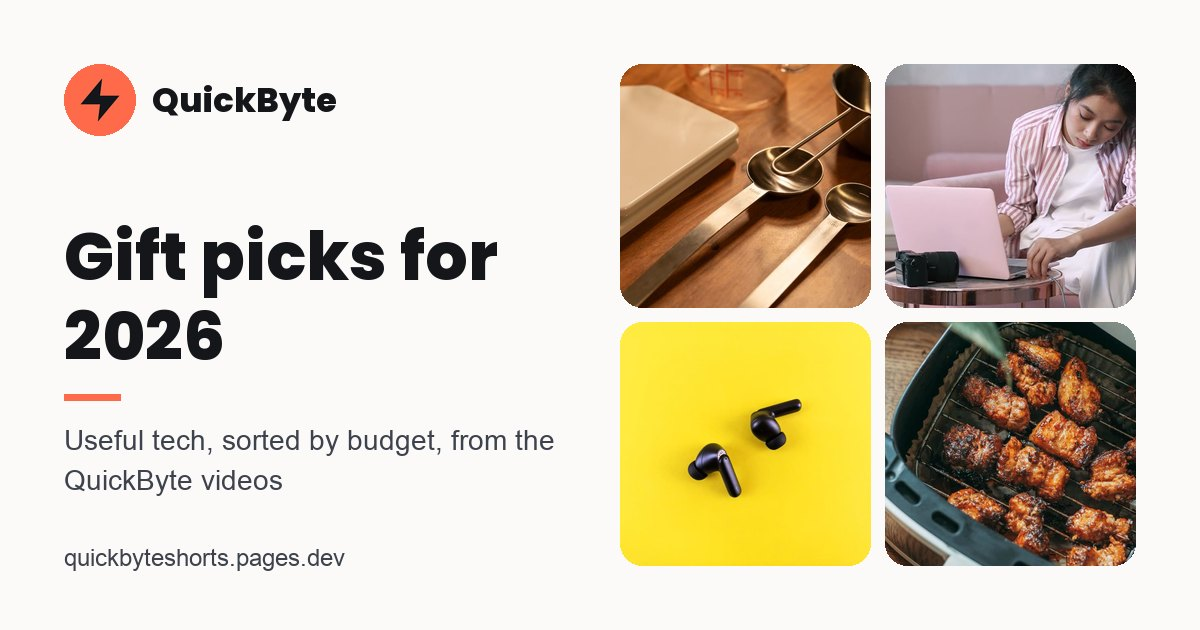
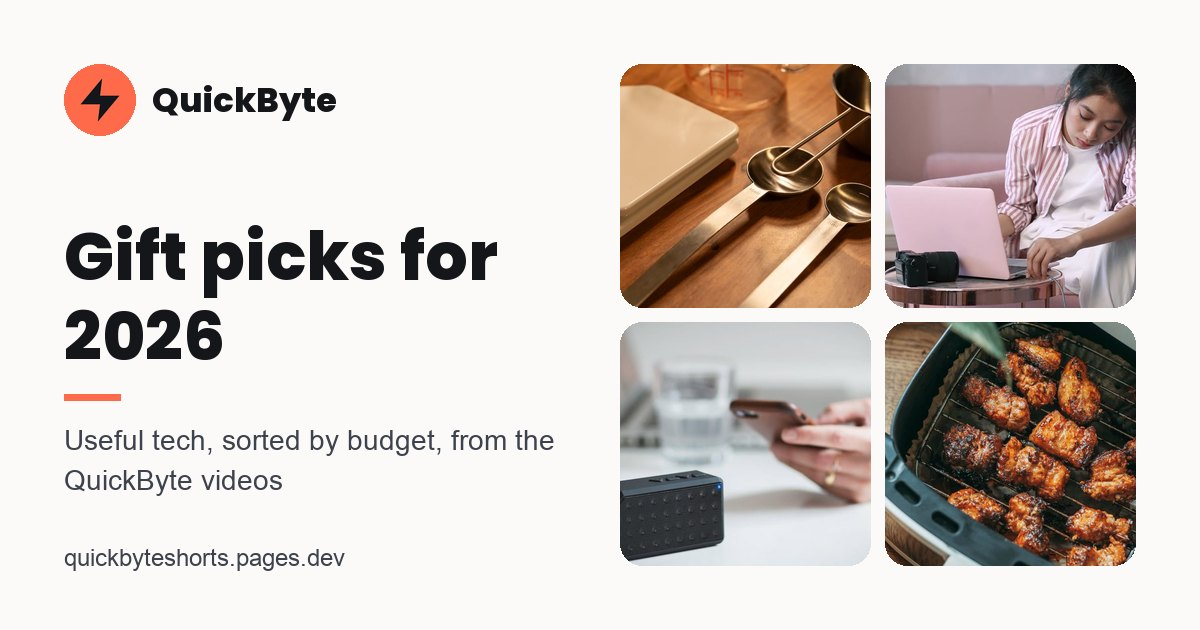
Automated cycle: update landing page

Changed region(s): [[0.4933, 0.4825, 0.74, 0.9048]]

diff --git a/docs/index.html b/docs/index.html
@@ -89,7 +89,7 @@ footer{color:var(--muted);font-size:.82rem;text-align:center;padding:24px 20px 3
 footer a{color:inherit}
 @media (max-width:520px){.season{font-size:1.45rem}.wrap{padding-top:26px}.feature .name{font-size:1.15rem}}
 </style>
-<script type="application/ld+json">{"@context": "https://schema.org", "@graph": [{"@type": "WebSite", "@id": "https://quickbyteshorts.pages.dev/#website", "name": "QuickByte", "url": "https://quickbyteshorts.pages.dev/", "description": "Short videos on which tech is worth buying, and which isn't"}, {"@type": "ItemList", "name": "Gift picks for 2026", "numberOfItems": 28, "itemListElement": [{"@type": "ListItem", "position": 1, "name": "Digital kitchen scale", "url": "https://quickbyteshorts.pages.dev/#pick-kitchen-scale"}, {"@type": "ListItem", "position": 2, "name": "ThermoPro TP19H instant-read thermometer", "url": "https://quickbyteshorts.pages.dev/#pick-thermopro-tp19h"}, {"@type": "ListItem", "position": 3, "name": "Tile Mate tracker", "url": "https://quickbyteshorts.pages.dev/#pick-tile-mate"}, {"@type": "ListItem", "position": 4, "name": "Anker Nano 30W USB-C charger", "url": "https://quickbyteshorts.pages.dev/#pick-anker-nano-charger"}, {"@type": "ListItem", "position": 5, "name": "UGREEN 240W USB-C cable (USB4)", "url": "https://quickbyteshorts.pages.dev/#pick-ugreen-usb4-cable"}, {"@type": "ListItem", "position": 6, "name": "65W two-port USB-C charger", "url": "https://quickbyteshorts.pages.dev/#pick-usb-c-65w-charger"}, {"@type": "ListItem", "position": 7, "name": "5-speed hand mixer", "url": "https://quickbyteshorts.pages.dev/#pick-hand-mixer"}, {"@type": "ListItem", "position": 8, "name": "Anker Nano power bank (10,000mAh)", "url": "https://quickbyteshorts.pages.dev/#pick-anker-nano-power-bank"}, {"@type": "ListItem", "position": 9, "name": "Redragon K552 mechanical keyboard", "url": "https://quickbyteshorts.pages.dev/#pick-redragon-k552-keyboard"}, {"@type": "ListItem", "position": 10, "name": "Echo Pop or Nest Mini", "url": "https://quickbyteshorts.pages.dev/#pick-smart-speaker"}, {"@type": "ListItem", "position": 11, "name": "4K streaming stick", "url": "https://quickbyteshorts.pages.dev/#pick-streaming-stick"}, {"@type": "ListItem", "position": 12, "name": "Belkin Qi2 magnetic charger", "url": "https://quickbyteshorts.pages.dev/#pick-belkin-qi2-charger"}, {"@type": "ListItem", "position": 13, "name": "Soundcore Liberty 4 NC earbuds", "url": "https://quickbyteshorts.pages.dev/#pick-soundcore-liberty-4-nc"}, {"@type": "ListItem", "position": 14, "name": "Variable-temperature gooseneck kettle", "url": "https://quickbyteshorts.pages.dev/#pick-gooseneck-kettle"}, {"@type": "ListItem", "position": 15, "name": "Cosori Pro LE 5-quart air fryer", "url": "https://quickbyteshorts.pages.dev/#pick-cosori-air-fryer-5qt"}, {"@type": "ListItem", "position": 16, "name": "Kodak Step mini photo printer", "url": "https://quickbyteshorts.pages.dev/#pick-kodak-step-printer"}, {"@type": "ListItem", "position": 17, "name": "Dual-basket air fryer (8 qt)", "url": "https://quickbyteshorts.pages.dev/#pick-dual-basket-air-fryer"}, {"@type": "ListItem", "position": 18, "name": "1080p mini projector with Google TV", "url": "https://quickbyteshorts.pages.dev/#pick-mini-projector-google-tv"}, {"@type": "ListItem", "position": 19, "name": "Wi-Fi photo frame", "url": "https://quickbyteshorts.pages.dev/#pick-wifi-photo-frame"}, {"@type": "ListItem", "position": 20, "name": "Baratza Encore burr grinder", "url": "https://quickbyteshorts.pages.dev/#pick-baratza-encore"}, {"@type": "ListItem", "position": 21, "name": "Kindle Paperwhite", "url": "https://quickbyteshorts.pages.dev/#pick-kindle-paperwhite"}, {"@type": "ListItem", "position": 22, "name": "MagicFiber microfiber cloths (6-pack)", "url": "https://quickbyteshorts.pages.dev/#pick-magicfiber-cloths"}, {"@type": "ListItem", "position": 23, "name": "IP67 clip-on Bluetooth speaker", "url": "https://quickbyteshorts.pages.dev/#pick-ip67-bluetooth-speaker"}, {"@type": "ListItem", "position": 24, "name": "Qi2 3-in-1 stand with Apple Watch charger", "url": "https://quickbyteshorts.pages.dev/#pick-qi2-3-in-1-stand"}, {"@type": "ListItem", "position": 25, "name": "Leave-in probe meat thermometer", "url": "https://quickbyteshorts.pages.dev/#pick-leave-in-meat-thermometer"}, {"@type": "ListItem", "position": 26, "name": "Samsung 870 EVO SSD (500GB)", "url": "https://quickbyteshorts.pages.dev/#pick-samsung-870-evo-ssd"}, {"@type": "ListItem", "position": 27, "name": "27-inch 1440p monitor", "url": "https://quickbyteshorts.pages.dev/#pick-monitor-27-1440p"}, {"@type": "ListItem", "position": 28, "name": "Robot vacuum with lidar", "url": "https://quickbyteshorts.pages.dev/#pick-lidar-robot-vacuum"}]}]}</script>
+<script type="application/ld+json">{"@context": "https://schema.org", "@graph": [{"@type": "WebSite", "@id": "https://quickbyteshorts.pages.dev/#website", "name": "QuickByte", "url": "https://quickbyteshorts.pages.dev/", "description": "Short videos on which tech is worth buying, and which isn't"}, {"@type": "ItemList", "name": "Gift picks for 2026", "numberOfItems": 28, "itemListElement": [{"@type": "ListItem", "position": 1, "name": "Digital kitchen scale", "url": "https://quickbyteshorts.pages.dev/#pick-kitchen-scale"}, {"@type": "ListItem", "position": 2, "name": "ThermoPro TP19H instant-read thermometer", "url": "https://quickbyteshorts.pages.dev/#pick-thermopro-tp19h"}, {"@type": "ListItem", "position": 3, "name": "Tile Mate tracker", "url": "https://quickbyteshorts.pages.dev/#pick-tile-mate"}, {"@type": "ListItem", "position": 4, "name": "Anker Nano 30W USB-C charger", "url": "https://quickbyteshorts.pages.dev/#pick-anker-nano-charger"}, {"@type": "ListItem", "position": 5, "name": "UGREEN 240W USB-C cable (USB4)", "url": "https://quickbyteshorts.pages.dev/#pick-ugreen-usb4-cable"}, {"@type": "ListItem", "position": 6, "name": "65W two-port USB-C charger", "url": "https://quickbyteshorts.pages.dev/#pick-usb-c-65w-charger"}, {"@type": "ListItem", "position": 7, "name": "5-speed hand mixer", "url": "https://quickbyteshorts.pages.dev/#pick-hand-mixer"}, {"@type": "ListItem", "position": 8, "name": "Anker Nano power bank (10,000mAh)", "url": "https://quickbyteshorts.pages.dev/#pick-anker-nano-power-bank"}, {"@type": "ListItem", "position": 9, "name": "Redragon K552 mechanical keyboard", "url": "https://quickbyteshorts.pages.dev/#pick-redragon-k552-keyboard"}, {"@type": "ListItem", "position": 10, "name": "Echo Pop or Nest Mini", "url": "https://quickbyteshorts.pages.dev/#pick-smart-speaker"}, {"@type": "ListItem", "position": 11, "name": "4K streaming stick", "url": "https://quickbyteshorts.pages.dev/#pick-streaming-stick"}, {"@type": "ListItem", "position": 12, "name": "Belkin Qi2 magnetic charger", "url": "https://quickbyteshorts.pages.dev/#pick-belkin-qi2-charger"}, {"@type": "ListItem", "position": 13, "name": "IP67 clip-on Bluetooth speaker", "url": "https://quickbyteshorts.pages.dev/#pick-ip67-bluetooth-speaker"}, {"@type": "ListItem", "position": 14, "name": "Soundcore Liberty 4 NC earbuds", "url": "https://quickbyteshorts.pages.dev/#pick-soundcore-liberty-4-nc"}, {"@type": "ListItem", "position": 15, "name": "Variable-temperature gooseneck kettle", "url": "https://quickbyteshorts.pages.dev/#pick-gooseneck-kettle"}, {"@type": "ListItem", "position": 16, "name": "Cosori Pro LE 5-quart air fryer", "url": "https://quickbyteshorts.pages.dev/#pick-cosori-air-fryer-5qt"}, {"@type": "ListItem", "position": 17, "name": "Kodak Step mini photo printer", "url": "https://quickbyteshorts.pages.dev/#pick-kodak-step-printer"}, {"@type": "ListItem", "position": 18, "name": "Dual-basket air fryer (8 qt)", "url": "https://quickbyteshorts.pages.dev/#pick-dual-basket-air-fryer"}, {"@type": "ListItem", "position": 19, "name": "1080p mini projector with Google TV", "url": "https://quickbyteshorts.pages.dev/#pick-mini-projector-google-tv"}, {"@type": "ListItem", "position": 20, "name": "Wi-Fi photo frame", "url": "https://quickbyteshorts.pages.dev/#pick-wifi-photo-frame"}, {"@type": "ListItem", "position": 21, "name": "Baratza Encore burr grinder", "url": "https://quickbyteshorts.pages.dev/#pick-baratza-encore"}, {"@type": "ListItem", "position": 22, "name": "Kindle Paperwhite", "url": "https://quickbyteshorts.pages.dev/#pick-kindle-paperwhite"}, {"@type": "ListItem", "position": 23, "name": "MagicFiber microfiber cloths (6-pack)", "url": "https://quickbyteshorts.pages.dev/#pick-magicfiber-cloths"}, {"@type": "ListItem", "position": 24, "name": "Qi2 3-in-1 stand with Apple Watch charger", "url": "https://quickbyteshorts.pages.dev/#pick-qi2-3-in-1-stand"}, {"@type": "ListItem", "position": 25, "name": "Leave-in probe meat thermometer", "url": "https://quickbyteshorts.pages.dev/#pick-leave-in-meat-thermometer"}, {"@type": "ListItem", "position": 26, "name": "Samsung 870 EVO SSD (500GB)", "url": "https://quickbyteshorts.pages.dev/#pick-samsung-870-evo-ssd"}, {"@type": "ListItem", "position": 27, "name": "27-inch 1440p monitor", "url": "https://quickbyteshorts.pages.dev/#pick-monitor-27-1440p"}, {"@type": "ListItem", "position": 28, "name": "Robot vacuum with lidar", "url": "https://quickbyteshorts.pages.dev/#pick-lidar-robot-vacuum"}]}]}</script>
 </head>
 <body>
 <div class="wrap">
@@ -98,7 +98,11 @@ footer a{color:inherit}
 <nav class="socials" aria-label="QuickByte on social media"><a href="https://www.youtube.com/@quickbytetips" target="_blank" rel="noopener me">YouTube</a><a href="https://www.tiktok.com/@quickbytetips" target="_blank" rel="noopener me">TikTok</a><a href="https://www.instagram.com/quickbytetips" target="_blank" rel="noopener me">Instagram</a></nav>
 <p class="disc">The Amazon links on this page are affiliate links. As an Amazon Associate I earn from qualifying purchases.</p>
 <main>
-<section class="latest" aria-labelledby="latest-h"><h2 id="latest-h">From recent videos</h2><div class="grid wide"><article class="pick compact"><div class="ph"><picture><source type="image/webp" srcset="img/65w-2-port-usb-c-gan-charger-480.webp 480w, img/65w-2-port-usb-c-gan-charger-800.webp 800w" sizes="160px"><img src="img/65w-2-port-usb-c-gan-charger.jpg" alt="" width="800" height="600" fetchpriority="high" decoding="async"></picture></div><div class="body">
+<section class="latest" aria-labelledby="latest-h"><h2 id="latest-h">From today's video</h2><article class="feature"><div class="ph"><picture><source type="image/webp" srcset="img/ip67-clip-on-bluetooth-speaker-480.webp 480w, img/ip67-clip-on-bluetooth-speaker-800.webp 800w" sizes="(max-width:700px) calc(100vw - 40px), 500px"><img src="img/ip67-clip-on-bluetooth-speaker.jpg" alt="" width="800" height="600" fetchpriority="high" decoding="async"></picture></div><div class="body">
+<h3 class="name">IP67 clip-on Bluetooth speaker</h3>
+<p class="seen">From the video: Bluetooth speaker gift: check for IP67 before you buy</p><p class="note">IP67 means it can handle the beach, the shower and a dropped drink, and the clip hangs it off a bag.</p>
+<div class="row"><a class="buy" href="https://www.amazon.com/s?k=jbl+clip+5&amp;tag=quickbyte0f-20" target="_blank" rel="sponsored nofollow noopener">See it on Amazon</a><span class="paid">Paid link</span></div>
+</div></article><h2>Also from recent videos</h2><div class="grid wide"><article class="pick compact"><div class="ph"><picture><source type="image/webp" srcset="img/65w-2-port-usb-c-gan-charger-480.webp 480w, img/65w-2-port-usb-c-gan-charger-800.webp 800w" sizes="160px"><img src="img/65w-2-port-usb-c-gan-charger.jpg" alt="" width="800" height="600" loading="lazy" decoding="async"></picture></div><div class="body">
 <h3 class="name">65W two-port USB-C charger</h3>
 <p class="seen">From: One 65W USB-C charger can replace three bricks: check your laptop first</p><p class="note">One small brick can charge a USB-C laptop and a phone at the same time, so you pack one charger instead of three.</p>
 <div class="row"><a class="buy" href="https://www.amazon.com/s?k=65W+USB+C+GaN+charger+2+port&amp;tag=quickbyte0f-20" target="_blank" rel="sponsored nofollow noopener">See it on Amazon</a><span class="paid">Paid link</span><a class="watch" href="https://www.youtube.com/shorts/FMfNpGTLUkg" target="_blank" rel="noopener">Watch the video</a></div>
@@ -106,10 +110,6 @@ footer a{color:inherit}
 <h3 class="name">Leave-in probe meat thermometer</h3>
 <p class="seen">From: Meat thermometer for turkey: why a leave-in probe beats instant-read</p><p class="note">It stays in the turkey and beeps when it&#x27;s close, so you&#x27;re not opening the oven every ten minutes.</p>
 <div class="row"><a class="buy" href="https://www.amazon.com/s?k=leave+in+probe+meat+thermometer&amp;tag=quickbyte0f-20" target="_blank" rel="sponsored nofollow noopener">See it on Amazon</a><span class="paid">Paid link</span><a class="watch" href="https://www.youtube.com/shorts/TVMmbyH12_8" target="_blank" rel="noopener">Watch the video</a></div>
-</div></article><article class="pick compact"><div class="ph"><picture><source type="image/webp" srcset="img/8-quart-dual-basket-air-fryer-480.webp 480w, img/8-quart-dual-basket-air-fryer-800.webp 800w" sizes="160px"><img src="img/8-quart-dual-basket-air-fryer.jpg" alt="" width="800" height="600" loading="lazy" decoding="async"></picture></div><div class="body">
-<h3 class="name">Dual-basket air fryer (8 qt)</h3>
-<p class="seen">From: Dual basket air fryer: 8 quarts is really two 4-quart baskets</p><p class="note">Two 4-quart baskets mean the chicken and the fries finish at the same time, which a single basket can&#x27;t do.</p>
-<div class="row"><a class="buy" href="https://www.amazon.com/dp/B089TQWJKK?tag=quickbyte0f-20" target="_blank" rel="sponsored nofollow noopener">See it on Amazon</a><span class="paid">Paid link</span><a class="watch" href="https://www.youtube.com/shorts/FFoRCtzThzQ" target="_blank" rel="noopener">Watch the video</a></div>
 </div></article></div></section><h1 class="season" id="gifts">Gift picks for 2026</h1><p class="season-sub">Each pick comes from a QuickByte video (a few of those videos are still on the way). Useful things, sensibly priced, that we'd tell a friend to buy. Sorted by budget.</p><nav class="jump" aria-label="Budgets"><a href="#under-25">Under $25</a><a href="#under-50">Under $50</a><a href="#under-100">Under $100</a><a href="#worth-the-splurge">Worth the splurge</a></nav><h2 id="under-25">Under $25</h2><div class="grid"><article class="pick" id="pick-kitchen-scale"><div class="ph"><picture><source type="image/webp" srcset="img/digital-kitchen-scale-480.webp 480w, img/digital-kitchen-scale-800.webp 800w" sizes="(max-width:640px) calc(100vw - 40px), 320px"><img src="img/digital-kitchen-scale.jpg" alt="" width="800" height="600" loading="lazy" decoding="async"></picture></div><div class="body">
 <h3 class="name">Digital kitchen scale</h3>
 <p class="note">Weighing flour instead of scooping it is the easiest way to make a recipe come out the same every time.</p>
@@ -162,7 +162,11 @@ footer a{color:inherit}
 <h3 class="name">Belkin Qi2 magnetic charger</h3>
 <p class="note">Snaps into place so the phone charges at full speed instead of running warm on a misaligned pad.</p>
 <div class="row"><a class="buy" href="https://www.amazon.com/dp/B0F8LMHB64?tag=quickbyte0f-20" target="_blank" rel="sponsored nofollow noopener">See it on Amazon</a><span class="paid">Paid link</span><a class="watch" href="https://www.youtube.com/shorts/m6Fe35_G_mc" target="_blank" rel="noopener">Watch the video</a></div>
-</div></article></div><h2 id="under-100">Under $100</h2><div class="grid"><article class="pick" id="pick-soundcore-liberty-4-nc"><div class="ph"><picture><source type="image/webp" srcset="img/noise-cancelling-wireless-earbuds-480.webp 480w, img/noise-cancelling-wireless-earbuds-800.webp 800w" sizes="(max-width:640px) calc(100vw - 40px), 320px"><img src="img/noise-cancelling-wireless-earbuds.jpg" alt="" width="800" height="600" loading="lazy" decoding="async"></picture></div><div class="body">
+</div></article></div><h2 id="under-100">Under $100</h2><div class="grid"><article class="pick" id="pick-ip67-bluetooth-speaker"><div class="ph"><picture><source type="image/webp" srcset="img/ip67-clip-on-bluetooth-speaker-480.webp 480w, img/ip67-clip-on-bluetooth-speaker-800.webp 800w" sizes="(max-width:640px) calc(100vw - 40px), 320px"><img src="img/ip67-clip-on-bluetooth-speaker.jpg" alt="" width="800" height="600" loading="lazy" decoding="async"></picture></div><div class="body">
+<h3 class="name">IP67 clip-on Bluetooth speaker</h3>
+<p class="note">IP67 means it can handle the beach, the shower and a dropped drink, and the clip hangs it off a bag.</p>
+<div class="row"><a class="buy" href="https://www.amazon.com/s?k=jbl+clip+5&amp;tag=quickbyte0f-20" target="_blank" rel="sponsored nofollow noopener">See it on Amazon</a><span class="paid">Paid link</span></div>
+</div></article><article class="pick" id="pick-soundcore-liberty-4-nc"><div class="ph"><picture><source type="image/webp" srcset="img/noise-cancelling-wireless-earbuds-480.webp 480w, img/noise-cancelling-wireless-earbuds-800.webp 800w" sizes="(max-width:640px) calc(100vw - 40px), 320px"><img src="img/noise-cancelling-wireless-earbuds.jpg" alt="" width="800" height="600" loading="lazy" decoding="async"></picture></div><div class="body">
 <h3 class="name">Soundcore Liberty 4 NC earbuds</h3>
 <p class="note">Strong noise cancelling for well under flagship prices. The included ear tips matter more than the brand.</p>
 <div class="row"><a class="buy" href="https://www.amazon.com/dp/B0BZV4QFP8?tag=quickbyte0f-20" target="_blank" rel="sponsored nofollow noopener">See it on Amazon</a><span class="paid">Paid link</span><a class="watch" href="https://www.youtube.com/shorts/4Xr4UNf1i6c" target="_blank" rel="noopener">Watch the video</a></div>
@@ -178,10 +182,6 @@ footer a{color:inherit}
 <h3 class="name">Kodak Step mini photo printer</h3>
 <p class="note">Prints 2x3 sticky-back photos straight from a phone with no ink to buy, which teens use for journals and lockers.</p>
 <div class="row"><a class="buy" href="https://www.amazon.com/dp/B08C6YGH12?tag=quickbyte0f-20" target="_blank" rel="sponsored nofollow noopener">See it on Amazon</a><span class="paid">Paid link</span><a class="watch" href="https://www.youtube.com/shorts/JxijiXfsUYc" target="_blank" rel="noopener">Watch the video</a></div>
-</div></article><article class="pick" id="pick-ip67-bluetooth-speaker"><div class="ph"><picture><source type="image/webp" srcset="img/ip67-clip-on-bluetooth-speaker-480.webp 480w, img/ip67-clip-on-bluetooth-speaker-800.webp 800w" sizes="(max-width:640px) calc(100vw - 40px), 320px"><img src="img/ip67-clip-on-bluetooth-speaker.jpg" alt="" width="800" height="600" loading="lazy" decoding="async"></picture></div><div class="body">
-<h3 class="name">IP67 clip-on Bluetooth speaker</h3>
-<p class="note">IP67 means it can handle the beach, the shower and a dropped drink, and the clip hangs it off a bag.</p>
-<div class="row"><a class="buy" href="https://www.amazon.com/s?k=jbl+clip+5&amp;tag=quickbyte0f-20" target="_blank" rel="sponsored nofollow noopener">See it on Amazon</a><span class="paid">Paid link</span></div>
 </div></article><article class="pick" id="pick-qi2-3-in-1-stand"><div class="ph"><picture><source type="image/webp" srcset="img/qi2-3-in-1-charging-stand-with-apple-watch-charger-480.webp 480w, img/qi2-3-in-1-charging-stand-with-apple-watch-charger-800.webp 800w" sizes="(max-width:640px) calc(100vw - 40px), 320px"><img src="img/qi2-3-in-1-charging-stand-with-apple-watch-charger.jpg" alt="" width="800" height="600" loading="lazy" decoding="async"></picture></div><div class="body">
 <h3 class="name">Qi2 3-in-1 stand with Apple Watch charger</h3>
 <p class="note">Charges an iPhone, AirPods and an Apple Watch overnight, because the watch gets its own puck instead of a flat pad.</p>
@@ -222,7 +222,7 @@ footer a{color:inherit}
 <h3 class="name">Robot vacuum with lidar</h3>
 <p class="note">The spinning lidar turret maps your rooms, so it cleans in rows instead of bumping around and missing spots.</p>
 <div class="row"><a class="buy" href="https://www.amazon.com/s?k=lidar+robot+vacuum&amp;tag=quickbyte0f-20" target="_blank" rel="sponsored nofollow noopener">See it on Amazon</a><span class="paid">Paid link</span></div>
-</div></article></div><p class="fine">We earn a small commission if you buy through these links, at no extra cost to you, and nobody pays to be on this page. Budget groups are based on typical prices when we chose each pick; Amazon shows the current price. Photos show the kind of product, not always the exact model.</p><h2 id="videos">Latest videos</h2><ul class="vids"><li><a href="https://www.youtube.com/shorts/uaUo0FEHGJ0" target="_blank" rel="noopener"><span>A $10 smart plug can start your coffee, but only with this kind of switch</span><span>Watch</span></a></li><li><a href="https://www.youtube.com/shorts/FMfNpGTLUkg" target="_blank" rel="noopener"><span>One 65W USB-C charger can replace three bricks: check your laptop first</span><span>Watch</span></a></li><li><a href="https://www.youtube.com/shorts/TVMmbyH12_8" target="_blank" rel="noopener"><span>Meat thermometer for turkey: why a leave-in probe beats instant-read</span><span>Watch</span></a></li><li><a href="https://www.youtube.com/shorts/ueOGdI8QxfU" target="_blank" rel="noopener"><span>Black Friday &#x27;was&#x27; prices: check the price history first</span><span>Watch</span></a></li><li><a href="https://www.youtube.com/shorts/FFoRCtzThzQ" target="_blank" rel="noopener"><span>Dual basket air fryer: 8 quarts is really two 4-quart baskets</span><span>Watch</span></a></li><li><a href="https://www.youtube.com/shorts/Dv4M-4MnR_E" target="_blank" rel="noopener"><span>Buying a TV for Black Friday? &#x27;Motion Rate 240&#x27; isn&#x27;t 240Hz</span><span>Watch</span></a></li><li><a href="https://www.youtube.com/shorts/K9pjD7lymXY" target="_blank" rel="noopener"><span>$40 hand mixer vs $400 stand mixer: which gift they&#x27;ll actually use</span><span>Watch</span></a></li><li><a href="https://www.youtube.com/shorts/aHjZ0zC5BSc" target="_blank" rel="noopener"><span>Flying for the holidays? The power bank limit is in watt hours</span><span>Watch</span></a></li><li><a href="https://www.youtube.com/shorts/kx_fyVSDa70" target="_blank" rel="noopener"><span>That &#x27;package couldn&#x27;t be delivered&#x27; text is a holiday scam</span><span>Watch</span></a></li><li><a href="https://www.youtube.com/shorts/zjIrW3NfS0I" target="_blank" rel="noopener"><span>$120 vs $250 monitor: why 1080p looks soft at 27 inches</span><span>Watch</span></a></li><li><a href="https://www.youtube.com/shorts/UGydqJuRBz8" target="_blank" rel="noopener"><span>Mini projector gift: check for a real Netflix app before you buy</span><span>Watch</span></a></li><li><a href="https://www.youtube.com/shorts/NHixnNcCsW4" target="_blank" rel="noopener"><span>$25 vs $150 coffee maker: the difference is water temperature</span><span>Watch</span></a></li></ul>
+</div></article></div><p class="fine">We earn a small commission if you buy through these links, at no extra cost to you, and nobody pays to be on this page. Budget groups are based on typical prices when we chose each pick; Amazon shows the current price. Photos show the kind of product, not always the exact model.</p><h2 id="videos">Latest videos</h2><ul class="vids"><li><a href="https://www.youtube.com/shorts/4L8kqLYQ27M" target="_blank" rel="noopener"><span>Black Friday: what&#x27;s usually worth buying, and what to wait on</span><span>Watch</span></a></li><li><a href="https://www.youtube.com/shorts/uaUo0FEHGJ0" target="_blank" rel="noopener"><span>A $10 smart plug can start your coffee, but only with this kind of switch</span><span>Watch</span></a></li><li><a href="https://www.youtube.com/shorts/FMfNpGTLUkg" target="_blank" rel="noopener"><span>One 65W USB-C charger can replace three bricks: check your laptop first</span><span>Watch</span></a></li><li><a href="https://www.youtube.com/shorts/TVMmbyH12_8" target="_blank" rel="noopener"><span>Meat thermometer for turkey: why a leave-in probe beats instant-read</span><span>Watch</span></a></li><li><a href="https://www.youtube.com/shorts/ueOGdI8QxfU" target="_blank" rel="noopener"><span>Black Friday &#x27;was&#x27; prices: check the price history first</span><span>Watch</span></a></li><li><a href="https://www.youtube.com/shorts/FFoRCtzThzQ" target="_blank" rel="noopener"><span>Dual basket air fryer: 8 quarts is really two 4-quart baskets</span><span>Watch</span></a></li><li><a href="https://www.youtube.com/shorts/Dv4M-4MnR_E" target="_blank" rel="noopener"><span>Buying a TV for Black Friday? &#x27;Motion Rate 240&#x27; isn&#x27;t 240Hz</span><span>Watch</span></a></li><li><a href="https://www.youtube.com/shorts/K9pjD7lymXY" target="_blank" rel="noopener"><span>$40 hand mixer vs $400 stand mixer: which gift they&#x27;ll actually use</span><span>Watch</span></a></li><li><a href="https://www.youtube.com/shorts/aHjZ0zC5BSc" target="_blank" rel="noopener"><span>Flying for the holidays? The power bank limit is in watt hours</span><span>Watch</span></a></li><li><a href="https://www.youtube.com/shorts/kx_fyVSDa70" target="_blank" rel="noopener"><span>That &#x27;package couldn&#x27;t be delivered&#x27; text is a holiday scam</span><span>Watch</span></a></li><li><a href="https://www.youtube.com/shorts/zjIrW3NfS0I" target="_blank" rel="noopener"><span>$120 vs $250 monitor: why 1080p looks soft at 27 inches</span><span>Watch</span></a></li><li><a href="https://www.youtube.com/shorts/UGydqJuRBz8" target="_blank" rel="noopener"><span>Mini projector gift: check for a real Netflix app before you buy</span><span>Watch</span></a></li></ul>
 </main>
 </div>
 <footer>QuickByte &middot; @quickbytetips<br>As an Amazon Associate I earn from qualifying purchases. Amazon and the Amazon logo are trademarks of
